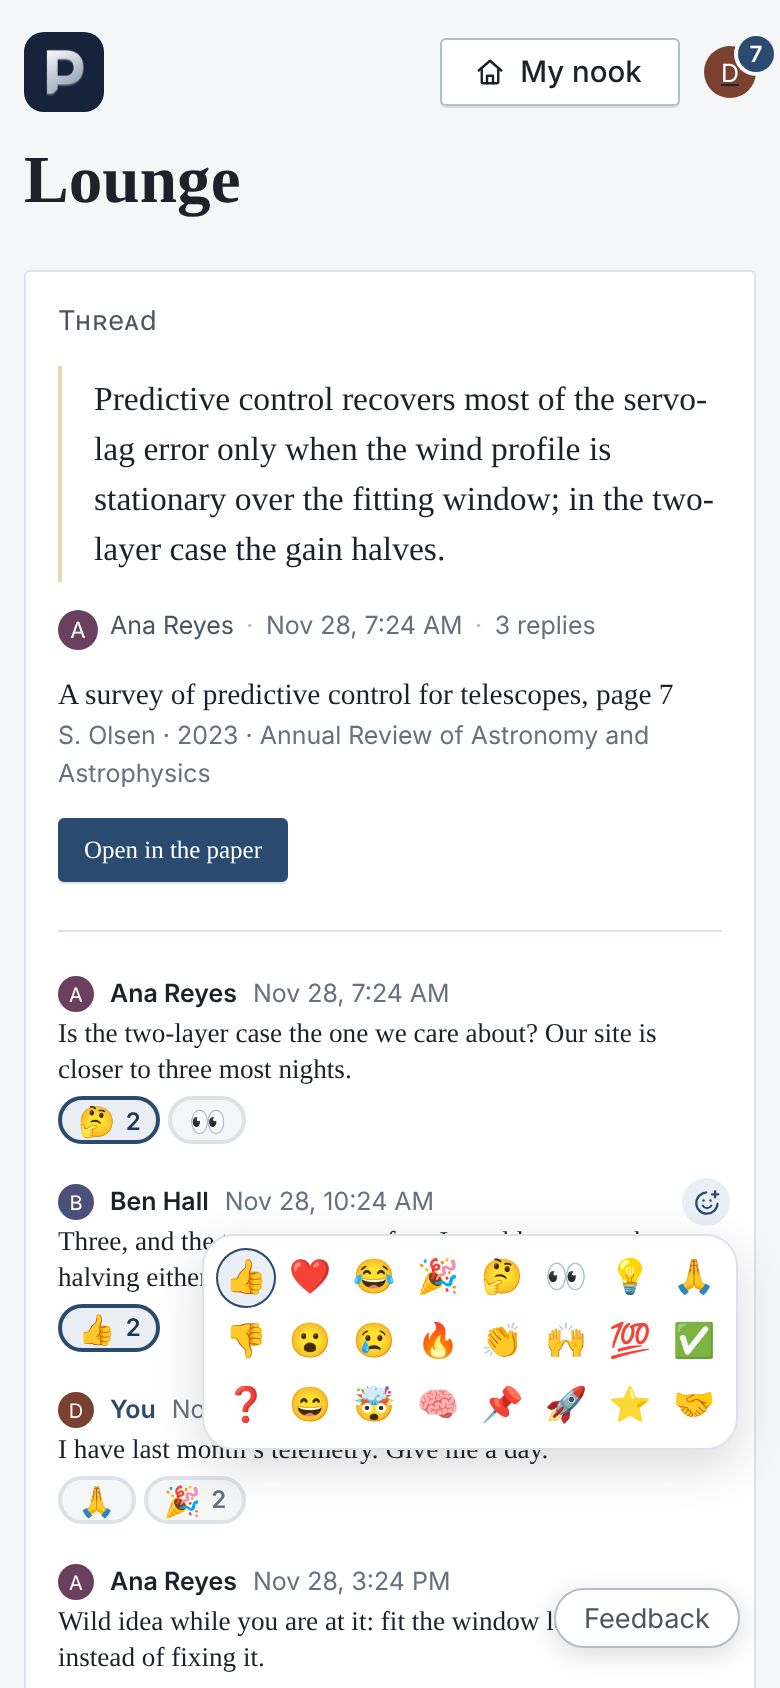
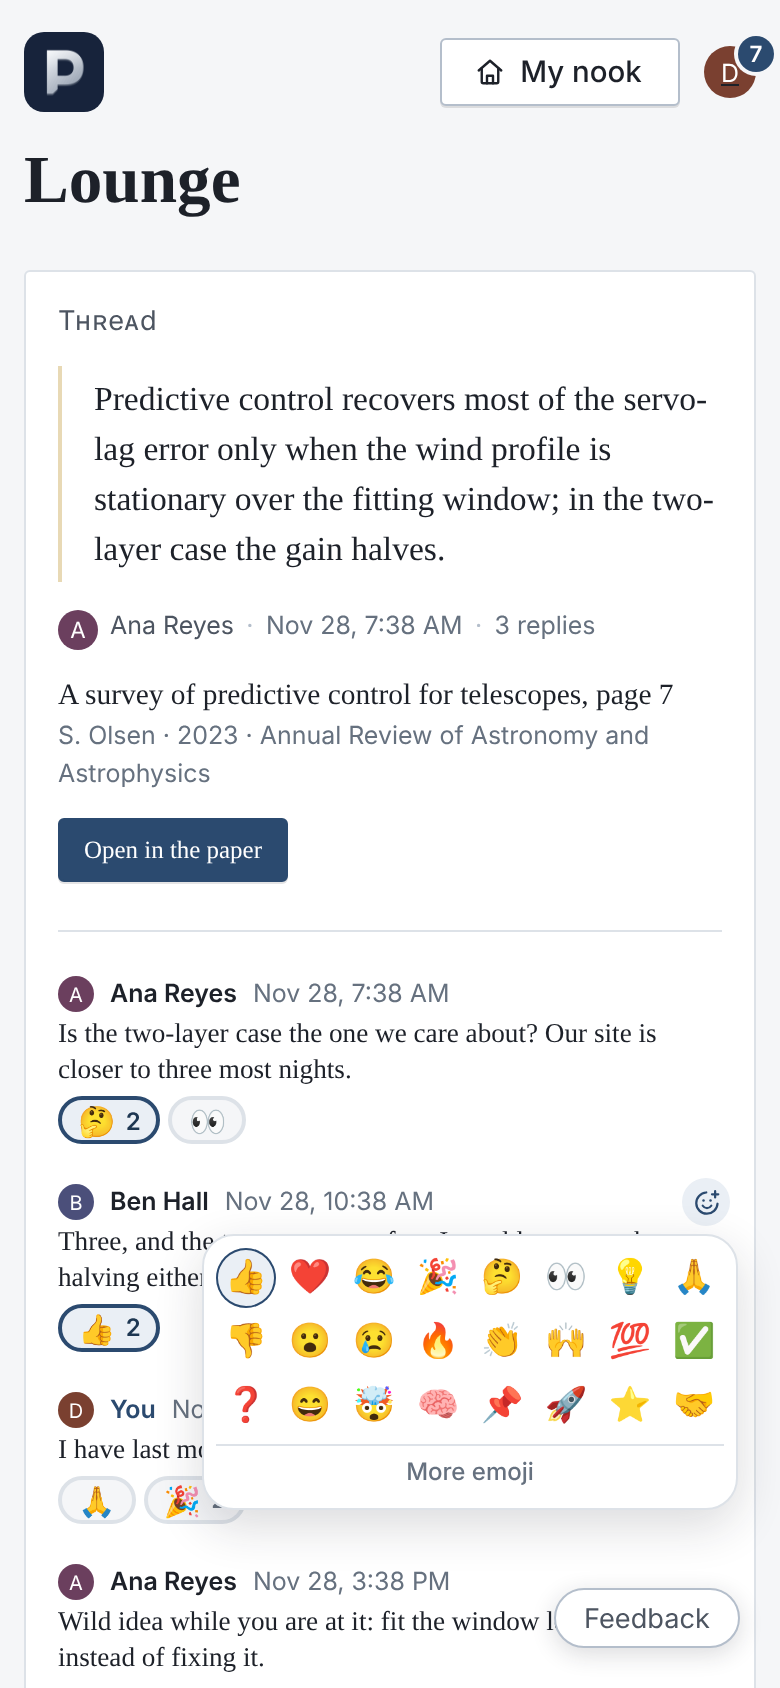
Offer every emoji behind More, the common ones first
The picker's common emoji end with More emoji, which opens every emoji
in the standard's groups in a panel that scrolls, the common ones on
top, with a field that finds one by name. The list is fetched when More
is first pressed. The server takes any one emoji as a reaction.

Claude-Session: https://claude.ai/code/session_01PQZzMTBs5R5vYD8ggRB1u7

Changed region(s): [[0.2769, 0.8318, 0.8923, 0.955], [0.4923, 0.5853, 0.5231, 0.6161], [0.4615, 0.7085, 0.4923, 0.7393]]

diff --git a/shared/ui/Reactions.jsx b/shared/ui/Reactions.jsx
@@ -1,5 +1,6 @@
-import React, { useRef, useState } from 'react';
+import React, { useEffect, useRef, useState } from 'react';
 import { setReaction, takeBackReaction } from '../api/reactions.js';
+import { allEmojis } from '../allEmojis.js';
 import EMOJIS from '../reactionEmojis.js';
 import { useDismiss } from '../useDismiss.js';
 
@@ -58,22 +59,76 @@ function ReactGlyph() {
   );
 }
 
-// The button that offers the emoji. Pressed, they open in rows under it;
-// one picked is set (or, if the reader had set it, taken back).
+// Every emoji, behind More: a field that narrows them by name, then the
+// groups one under another in a panel that scrolls.
+function EveryEmoji({ reactions, pick }) {
+  const [groups, setGroups] = useState(null);
+  const [failed, setFailed] = useState(false);
+  const [wanted, setWanted] = useState('');
+  useEffect(() => {
+    let live = true;
+    allEmojis().then((found) => live && setGroups(found), () => live && setFailed(true));
+    return () => { live = false; };
+  }, []);
+  const words = wanted.trim().toLowerCase().split(/\s+/).filter(Boolean);
+  // The common ones stay on top, as a group of their own, until a name is asked for.
+  const named = new Map((groups ?? []).flatMap((group) => group.emojis));
+  const common = { name: 'Common', emojis: EMOJIS.map((emoji) => [emoji, named.get(emoji) ?? emoji]) };
+  const shown = (groups ? (words.length ? groups : [common, ...groups]) : [])
+    .map((group) => ({ ...group, emojis: words.length ? group.emojis.filter(([, name]) => words.every((word) => name.includes(word))) : group.emojis }))
+    .filter((group) => group.emojis.length);
+  return (
+    <>
+      <input
+        type="search" className="reaction-search" placeholder="Search emoji" aria-label="Search emoji" autoFocus
+        value={wanted} onChange={(event) => setWanted(event.target.value)}
+      />
+      <span className="reaction-every" tabIndex={-1}>
+        {failed && <span className="reaction-none" role="alert">The emoji could not be loaded.</span>}
+        {!groups && !failed && <span className="reaction-none">Loading…</span>}
+        {groups && !shown.length && <span className="reaction-none">No emoji by that name.</span>}
+        {shown.map((group) => (
+          <span key={group.name} className="reaction-group" role="group" aria-label={group.name}>
+            <span className="reaction-group-name" aria-hidden="true">{group.name}</span>
+            <span className="reaction-grid">
+              {group.emojis.map(([emoji, name]) => {
+                const mine = reactions.some((r) => r.emoji === emoji && r.mine);
+                return (
+                  <button key={emoji} type="button" className={mine ? 'is-mine' : ''} aria-pressed={mine} aria-label={`React with ${name}`} title={name} onClick={() => pick(emoji)}>
+                    {emoji}
+                  </button>
+                );
+              })}
+            </span>
+          </span>
+        ))}
+      </span>
+    </>
+  );
+}
+
+// The button that offers the emoji. Pressed, the common ones open in rows
+// under it, with More at their foot, which opens every emoji in their
+// place; one picked is set (or, if the reader had set it, taken back).
 export function ReactionAdd({ kind, uuid, reactions = [], onChanged, className = '' }) {
   const [open, setOpen] = useState(false);
+  const [every, setEvery] = useState(false);
   const self = useRef(null);
   const toggle = useToggle(kind, uuid, reactions, onChanged);
-  useDismiss(open, self, () => setOpen(false));
+  const shut = () => { setOpen(false); setEvery(false); };
+  useDismiss(open, self, shut);
+  const pick = (emoji) => { shut(); toggle(emoji); };
   // The arrows walk the emoji: left and right along a row, up and down
-  // between rows, however many the menu is wide.
+  // between rows, however many the menu is wide. In the search field
+  // they move its caret as they always do.
   const walk = (event) => {
-    const items = [...event.currentTarget.querySelectorAll('button')];
-    const wide = items.filter((item) => item.offsetTop === items[0].offsetTop).length || 1;
+    if (event.target.tagName === 'INPUT') return;
+    const items = [...event.currentTarget.querySelectorAll('.reaction-grid button')];
+    const wide = items.filter((item) => item.offsetTop === items[0]?.offsetTop).length || 1;
     const step = { ArrowRight: 1, ArrowLeft: -1, ArrowDown: wide, ArrowUp: -wide }[event.key];
-    if (!step) return;
-    event.preventDefault();
     const at = items.indexOf(document.activeElement);
+    if (!step || at < 0) return;
+    event.preventDefault();
     const to = Math.abs(step) === 1 ? (at + step + items.length) % items.length : at + step;
     items[to]?.focus();
   };
@@ -81,23 +136,30 @@ export function ReactionAdd({ kind, uuid, reactions = [], onChanged, className =
     <span ref={self} className={`reaction-add${open ? ' is-open' : ''} ${className}`}>
       <button
         type="button" className="reaction-add-button" aria-label="React" title="React" aria-haspopup="true" aria-expanded={open}
-        onClick={() => setOpen((was) => !was)}
+        onClick={() => (open ? shut() : setOpen(true))}
       >
         <ReactGlyph />
       </button>
       {open && (
-        <span className="reaction-menu" role="group" aria-label="React with" onKeyDown={walk}>
-          {EMOJIS.map((emoji, at) => {
-            const mine = reactions.some((r) => r.emoji === emoji && r.mine);
-            return (
-              <button
-                key={emoji} type="button" className={mine ? 'is-mine' : ''} aria-pressed={mine} aria-label={`React with ${emoji}`} autoFocus={at === 0}
-                onClick={() => { setOpen(false); toggle(emoji); }}
-              >
-                {emoji}
-              </button>
-            );
-          })}
+        <span className={`reaction-menu${every ? ' is-every' : ''}`} role="group" aria-label="React with" onKeyDown={walk}>
+          {every ? <EveryEmoji reactions={reactions} pick={pick} /> : (
+            <>
+              <span className="reaction-grid">
+                {EMOJIS.map((emoji, at) => {
+                  const mine = reactions.some((r) => r.emoji === emoji && r.mine);
+                  return (
+                    <button
+                      key={emoji} type="button" className={mine ? 'is-mine' : ''} aria-pressed={mine} aria-label={`React with ${emoji}`} autoFocus={at === 0}
+                      onClick={() => pick(emoji)}
+                    >
+                      {emoji}
+                    </button>
+                  );
+                })}
+              </span>
+              <button type="button" className="reaction-more" onClick={() => setEvery(true)}>More emoji</button>
+            </>
+          )}
         </span>
       )}
     </span>

diff --git a/shared/talkStyles.js b/shared/talkStyles.js
@@ -198,10 +198,18 @@ ${inDark([['.phase-glyph.is-stashed', 'color: #95a6d6;']])}
   :is(.talk-post, .thread-jacket):hover .reaction-add-button, .talk-post:focus-within .reaction-add-button, .reaction-add-button:focus-visible, .reaction-add.is-open .reaction-add-button { opacity: 1; }
   .thread-jacket:hover .talk-post:not(:hover) .reaction-add:not(.is-open) .reaction-add-button:not(:focus-visible) { opacity: 0; }
 }
-.reaction-menu { position: absolute; top: calc(100% + 4px); right: -4px; z-index: 30; display: grid; grid-template-columns: repeat(8, max-content); gap: 2px; padding: 6px; border: 1px solid var(--line); border-radius: 16px; background: var(--card); box-shadow: var(--shadow-md); }
-.reaction-add .reaction-menu button { display: grid; flex: none; width: 30px; height: 30px; min-height: 0; padding: 0; place-items: center; border: 0; border-radius: 50%; background: none; box-shadow: none; color: var(--ink); font: 17px/1 var(--font-ui); cursor: pointer; --cap-room: 0px; }
-.reaction-add .reaction-menu button:hover, .reaction-add .reaction-menu button:focus-visible { background: var(--accent-soft); color: var(--ink); outline: none; }
-.reaction-add .reaction-menu button.is-mine { background: var(--accent-soft); box-shadow: inset 0 0 0 1px var(--accent); }
+.reaction-menu { position: absolute; top: calc(100% + 4px); right: -4px; z-index: 30; display: flex; flex-direction: column; gap: 4px; padding: 6px; border: 1px solid var(--line); border-radius: 16px; background: var(--card); box-shadow: var(--shadow-md); }
+.reaction-grid { display: grid; grid-template-columns: repeat(8, max-content); gap: 2px; }
+.reaction-add .reaction-grid button { display: grid; flex: none; width: 30px; height: 30px; min-height: 0; padding: 0; place-items: center; border: 0; border-radius: 50%; background: none; box-shadow: none; color: var(--ink); font: 17px/1 var(--font-ui); cursor: pointer; --cap-room: 0px; }
+.reaction-add .reaction-grid button:hover, .reaction-add .reaction-grid button:focus-visible { background: var(--accent-soft); color: var(--ink); outline: none; }
+.reaction-add .reaction-grid button.is-mine { background: var(--accent-soft); box-shadow: inset 0 0 0 1px var(--accent); }
+.reaction-add .reaction-more { align-self: stretch; min-height: 0; height: 26px; margin: 0; padding: 0 8px; border: 0; border-top: 1px solid var(--line); border-radius: 0 0 10px 10px; background: none; box-shadow: none; color: var(--ink-faint); font: 500 12px/1 var(--font-ui); cursor: pointer; --cap-room: 0px; }
+.reaction-add .reaction-more:hover, .reaction-add .reaction-more:focus-visible { background: var(--accent-soft); color: var(--accent); outline: none; }
+.reaction-add .reaction-search { box-sizing: border-box; width: 100%; min-height: 0; height: 28px; margin: 0; padding: 0 8px; border: 1px solid var(--line); border-radius: 8px; background: var(--paper); color: var(--ink); font: 13px/1 var(--font-ui); }
+.reaction-every { display: flex; flex-direction: column; gap: 6px; max-height: 232px; overflow-y: auto; overscroll-behavior: contain; outline: none; }
+.reaction-group { display: flex; flex-direction: column; gap: 2px; }
+.reaction-group-name { position: sticky; top: 0; z-index: 1; padding: 3px 4px; background: var(--card); color: var(--ink-faint); font: 600 11px/1.2 var(--font-ui); letter-spacing: .04em; text-transform: uppercase; }
+.reaction-none { box-sizing: border-box; width: 254px; padding: 12px 4px; color: var(--ink-faint); font: 13px/1.3 var(--font-ui); }
 .reactions { display: flex; flex-wrap: wrap; align-items: center; gap: 4px; margin: 4px 0 0; }
 /* A chip as chat apps draw one: the emoji the larger of the two and the
    count a small, quieter number after it, both set on a line of their own
@@ -221,5 +229,5 @@ ${inDark([['.phase-glyph.is-stashed', 'color: #95a6d6;']])}
 /* At the end of a row of chips the emoji open from the row's start. */
 .reactions .reaction-menu { right: auto; left: -4px; }
 .reaction-tally { display: inline-flex; gap: 6px; white-space: nowrap; }
-@media (pointer: coarse) { .reaction-add-button { width: 32px; height: 32px; } .reaction { height: 30px; padding: 0 10px; } .reaction-add .reaction-menu button { width: 34px; height: 34px; } .reaction-menu { grid-template-columns: repeat(6, max-content); } }
+@media (pointer: coarse) { .reaction-add-button { width: 32px; height: 32px; } .reaction { height: 30px; padding: 0 10px; } .reaction-add .reaction-grid button { width: 34px; height: 34px; } .reaction-grid { grid-template-columns: repeat(7, max-content); } .reaction-none { width: 250px; } }
 `;

diff --git a/cloudflare/src/routes/reactions.ts b/cloudflare/src/routes/reactions.ts
@@ -18,7 +18,6 @@
 // It is told one way only: a line in the inbox of whoever wrote the thing
 // (told, below), there while the emoji stands unread.
 
-import emojis from "../../../config/reactions.json";
 import { currentUser, type User } from "../auth";
 import { all, batch, newUuid, now, one, statement, type Row } from "../db";
 import { json, readJson, refuse, type Router } from "../http";
@@ -26,7 +25,11 @@ import { digLink, openDig } from "./digs";
 import { friendSees, notice, userLiteral } from "./friends";
 import { seesThread } from "./threads";
 
-const EMOJIS: string[] = emojis;
+// Any one emoji is a reaction: one the Unicode standard recommends, alone
+// (a flag, a family and a face with a skin tone are each one). The pages
+// offer a common few first and the rest behind More (config/reactions.json,
+// config/emoji.json); the server holds neither list.
+const EMOJI = new RegExp("^\\p{RGI_Emoji}$", "v");
 const UUID = /^[0-9a-f]{8}-[0-9a-f]{4}-[0-9a-f]{4}-[0-9a-f]{4}-[0-9a-f]{12}$/i;
 
 export interface Reaction { emoji: string; count: number; mine: boolean; who: string[] }
@@ -136,7 +139,7 @@ function told(env: Env, subject: Subject, me: User, emoji: string) {
 }
 
 function emojiOf(value: unknown): string {
-  return typeof value === "string" && EMOJIS.includes(value) ? value : refuse(422, "That is not a reaction Papol offers");
+  return typeof value === "string" && value.length <= 32 && EMOJI.test(value) ? value : refuse(422, "A reaction is one emoji");
 }
 
 export function reactionRoutes(router: Router) {

diff --git a/cloudflare/test/reactions.test.ts b/cloudflare/test/reactions.test.ts
@@ -59,8 +59,14 @@ describe("reactions", () => {
     expect(await reacted(await unreact(ada, "thread", thread.uuid))).toEqual([{ emoji: "👍", count: 1, mine: false, who: ["Grace"] }, { emoji: "🎉", count: 1, mine: false, who: ["Grace"] }]);
     expect(await reacted(await unreact(ada, "thread", thread.uuid, "🎉"))).toHaveLength(2);
 
-    // Only what Papol offers, and only on what takes one.
+    // Only an emoji, and only on what takes one.
     expect((await react(ada, "thread", thread.uuid, "x")).status).toBe(422);
+    // Any one emoji is a reaction, whether or not the pages offer it first: a
+    // flag, a face with a skin tone. Two emoji, or an emoji with words, are not.
+    expect(await reacted(await react(ada, "reply", said.uuid, "🦉"))).toContainEqual({ emoji: "🦉", count: 1, mine: true, who: ["Ada"] });
+    expect((await react(ada, "reply", said.uuid, "🇳🇱")).status).toBe(200);
+    expect((await react(ada, "reply", said.uuid, "👋🏽")).status).toBe(200);
+    for (const not of ["👍👍", "👍 yes", "", "🦉".repeat(20)]) expect((await react(ada, "reply", said.uuid, not)).status).toBe(422);
     expect((await react(ada, "thread", thread.uuid, null)).status).toBe(422);
     expect((await react(ada, "paper", thread.uuid)).status).toBe(404);
     expect((await react(ada, "thread", uuid())).status).toBe(404);

diff --git a/shared/allEmojis.js b/shared/allEmojis.js
@@ -1,0 +1,11 @@
+// Every emoji, in the groups and the order the Unicode standard lists
+// them, each with its name: what the picker shows behind More. It is
+// some fifty kilobytes, so it is fetched when More is first pressed and
+// not with the page. Generated from the unicode-emoji-json package (MIT),
+// up to Emoji 15.0, without the skin-tone variants.
+let asked = null;
+
+export function allEmojis() {
+  asked ??= import('./allEmojiData.js').then((found) => found.default);
+  return asked;
+}

diff --git a/shared/reactionEmojis.js b/shared/reactionEmojis.js
@@ -1,5 +1,5 @@
 import emojis from '../config/reactions.json' with { type: 'json' };
 
-// The emoji Papol offers as reactions, in the order the picker shows
-// them: the same list the server accepts.
+// The common emoji the picker offers first, in the order it shows them.
+// Every other emoji is behind More (allEmojis.js); the server takes any.
 export default emojis;

diff --git a/shared/allEmojiData.js b/shared/allEmojiData.js
@@ -1,0 +1,5 @@
+import emojis from '../config/emoji.json' with { type: 'json' };
+
+// Every emoji, in groups: [{ name, emojis: [[emoji, name], …] }]. Fetched
+// through allEmojis.js, never with the page.
+export default emojis;

diff --git a/docs/VOCABULARY.md b/docs/VOCABULARY.md
@@ -26,7 +26,7 @@ identifier of its own, the notes column gives it.
 | **Lounge** | The page of my friends' news, a paper to a row. It is made from my friends and nobody else. It took the place of the *Bazaar*, and with the friends' news the *Library*, the list of every paper and person, went too: both have left the vocabulary. Other people's papers are found here, on a nook, on a jacket's "also read by", or by a link; people are found with the Lounge's **Find**. | `Room.jsx`, `GET /api/room`, `route.page === 'room'` at `/lounge` (`/bazaar` still leads there). The list of every paper (`GET /api/papers`) stays, unshown: a folder's review asks it what Papol already holds. |
 | **Thread** | Something a user sent to the Lounge from a paper: words they selected (or a clip, as a picture), the place it came from, and their own words if they wrote any. Or started in the Lounge itself, from no paper: words, and pictures and files attached (`thread_files`, `ThreadComposer.jsx`). Free talk: no phase, no votes. Seen by its **starter** and the starter's friends, who **reply**; it shows in the Lounge alone and marks nothing on the paper. Its starter **rewords** their own words (never the passage, the place or the files), which is not news. Not a **dig** (§7), which is one person's writing kept on a thing. | `threads`, `routes/threads.ts`, `POST /api/threads`, `PUT /api/threads/<uuid>` (`words`; `edited_at`), `seesThread()`; a row of kind `thread` on `GET /api/room`, `ThreadRow` in `Room.jsx`. Sent from the viewer's send sheet (`source.threads.start`, `LOUNGE`). The place is kept as the viewer writes it in its address (`page`, `y`, `mark` or `box`; `threadPlacePath()`); a clip's picture is kept by its digest where board files are. Not synchronized. |
 | **Reply** | One piece of writing under a thread, by anyone who sees it. Reworded and taken back by its writer alone; the thread stays. Not a **post** (§7), which is in a dig. | `thread_replies` (`edited_at`), `POST /api/threads/<uuid>/replies`, `PUT` and `DELETE /api/thread-replies/<uuid>`. |
-| **Reaction** | An emoji a user sets on something said: a thread, a reply in one, a dig, or a post in one. A reply of a special sort, drawn differently: a chip under what it is on, with how many set it. Seen by exactly who sees the thread or the dig, any of whom sets their own and takes back only their own; each emoji once per person per thing. Told one way only: a line in the inbox of whoever wrote the thing (kind `reaction`), gone if the emoji is taken back unread, and none for one's own words. Otherwise nothing said: not news, no dot, no email, and counted as no reply and no post. | Kept where replies and posts are: a row of `thread_replies` or `dig_posts` with `emoji` set, and `on_reply_uuid` / `on_post_uuid` naming the reply or post it is on (null for the thread or dig itself; migration 0051). Every reader of replies and posts asks for `emoji IS NULL`. `routes/reactions.ts`, `PUT` and `DELETE /api/reactions/<thread\|reply\|dig\|post>/<uuid>`, `reactionsIn()`; `reactions` on a thread, a reply, a dig and a post. The emoji offered are `config/reactions.json`. `shared/ui/Reactions.jsx` (`ReactionAdd`, `ReactionChips`, `ReactionTally`). |
+| **Reaction** | An emoji a user sets on something said: a thread, a reply in one, a dig, or a post in one. A reply of a special sort, drawn differently: a chip under what it is on, with how many set it. Seen by exactly who sees the thread or the dig, any of whom sets their own and takes back only their own; each emoji once per person per thing. Told one way only: a line in the inbox of whoever wrote the thing (kind `reaction`), gone if the emoji is taken back unread, and none for one's own words. Otherwise nothing said: not news, no dot, no email, and counted as no reply and no post. | Kept where replies and posts are: a row of `thread_replies` or `dig_posts` with `emoji` set, and `on_reply_uuid` / `on_post_uuid` naming the reply or post it is on (null for the thread or dig itself; migration 0051). Every reader of replies and posts asks for `emoji IS NULL`. `routes/reactions.ts`, `PUT` and `DELETE /api/reactions/<thread\|reply\|dig\|post>/<uuid>`, `reactionsIn()`; `reactions` on a thread, a reply, a dig and a post. Any one emoji is a reaction (the server asks only that it is one, `\p{RGI_Emoji}`). The common ones offered first are `config/reactions.json`; every emoji, behind More, is `config/emoji.json`, fetched when More is first pressed (`shared/allEmojis.js`). `shared/ui/Reactions.jsx` (`ReactionAdd`, `ReactionChips`, `ReactionTally`). |
 | **News** | Something a user did that I am allowed to see, shown under its paper in the Lounge (a thread, or a reply in one, is news too); in a project, what is new since I last looked. The gold dot is its one sign. | Derived on read from copies, digs, boards, projects and friendships over four weeks; `copy_news` keeps when a thought or rating last changed. `users.room_seen_at`. The email of it is the `lounge_news` job (`jobs/lounge.ts`), queued by the daily cron, or the Sunday evening one for those who chose every week and made from the same rows; the `lounge_activity` email kind, set in Preferences, says how often, and `users.lounge_mailed_at` where the next starts. |
 | **Admin** | A user who can see feedback, settings and the tables page. | |
 

diff --git a/USER_STORIES.md b/USER_STORIES.md
@@ -251,7 +251,7 @@ A friend is someone I chose, who chose me back. Friendship is the third audience
 - **US-10.19** **A thread is one row in the Lounge**, marked *Thread*: the sender's words (or the passage, when they wrote none), the paper and page, how many replies, and the faces of everyone who spoke in it. Pressing it opens the thread's **jacket**, a page of its own at `/thread/<uuid>` as a paper and a board have: the passage as a quotation (or the clip), who sent it and when, the paper and page with **Open in the paper** leading to that place, everything said in order, and a box to **reply**. Its Back leads to the Lounge, wherever the jacket was opened from. My own threads are in my Lounge too, so I read the replies. A thread started, or a reply by someone else, wears the gold dot until I have opened the Lounge. *Threads* in the rail's Show narrows the room to them.
 - **US-10.19a** **I can reword what I said in a thread.** On a thread's jacket my own words wear a pencil, as a post in a dig does: a reply of mine beside its bin, and the words I sent a thread with on their own line. It opens them in place in the same formatted box, with **Save** (⌘↩) and **Cancel** (Esc). A thread I sent from a paper with no words of my own has the pencil at the top beside its bin, *Add words of your own*; such a thread can lose its words again, while one started in the Lounge keeps some unless it has a file. Only the words change: the passage or clip, the place in the paper and what I attached stay as sent. Nobody rewords what someone else said, and rewording is not news: no gold dot, and the thread keeps its place in the room.
 - **US-10.20** **A thread is seen by its sender's friends and nobody else**, and whoever sees it can reply; every reply is seen by all of them, friends of mine or not. It lives in the Lounge alone: nothing is drawn on the paper, on my copy or on anyone's. Its sender removes it, replies and all; a reply is taken back by whoever wrote it. A thread stays in the room for a month after the last thing said in it.
-- **US-10.20a** **I can react with an emoji to what is said.** A thread, each reply in it, a dig and each post in it show a small face with a plus on the line that says who and when once I point at them (always, on a phone); pressed, it offers two dozen emoji, and the one I pick stands under the words as a chip, with how many set it once more than one has. Mine are tinted, and pressing a chip sets that emoji too or takes mine back; resting on one names who set it. A reaction is seen by whoever sees the thread or the dig and by nobody else. Whoever wrote the thing gets a line in their inbox saying who reacted with what, leading to the thread, the project or the dig; the line goes if the emoji is taken back before it is read, and my own reaction to my own words tells nobody. Otherwise it is not news: no dot in the Lounge, no email, and it counts as no reply. A thread's row in the Lounge shows the emoji set on the thread itself.
+- **US-10.20a** **I can react with an emoji to what is said.** A thread, each reply in it, a dig and each post in it show a small face with a plus on the line that says who and when once I point at them (always, on a phone); pressed, it offers two dozen common emoji with More emoji under them, which opens every emoji in groups that scroll, the common ones first, with a field that finds one by name, and the one I pick stands under the words as a chip, with how many set it once more than one has. Mine are tinted, and pressing a chip sets that emoji too or takes mine back; resting on one names who set it. A reaction is seen by whoever sees the thread or the dig and by nobody else. Whoever wrote the thing gets a line in their inbox saying who reacted with what, leading to the thread, the project or the dig; the line goes if the emoji is taken back before it is read, and my own reaction to my own words tells nobody. Otherwise it is not news: no dot in the Lounge, no email, and it counts as no reply. A thread's row in the Lounge shows the emoji set on the thread itself.
 
 **Friends only**
 
